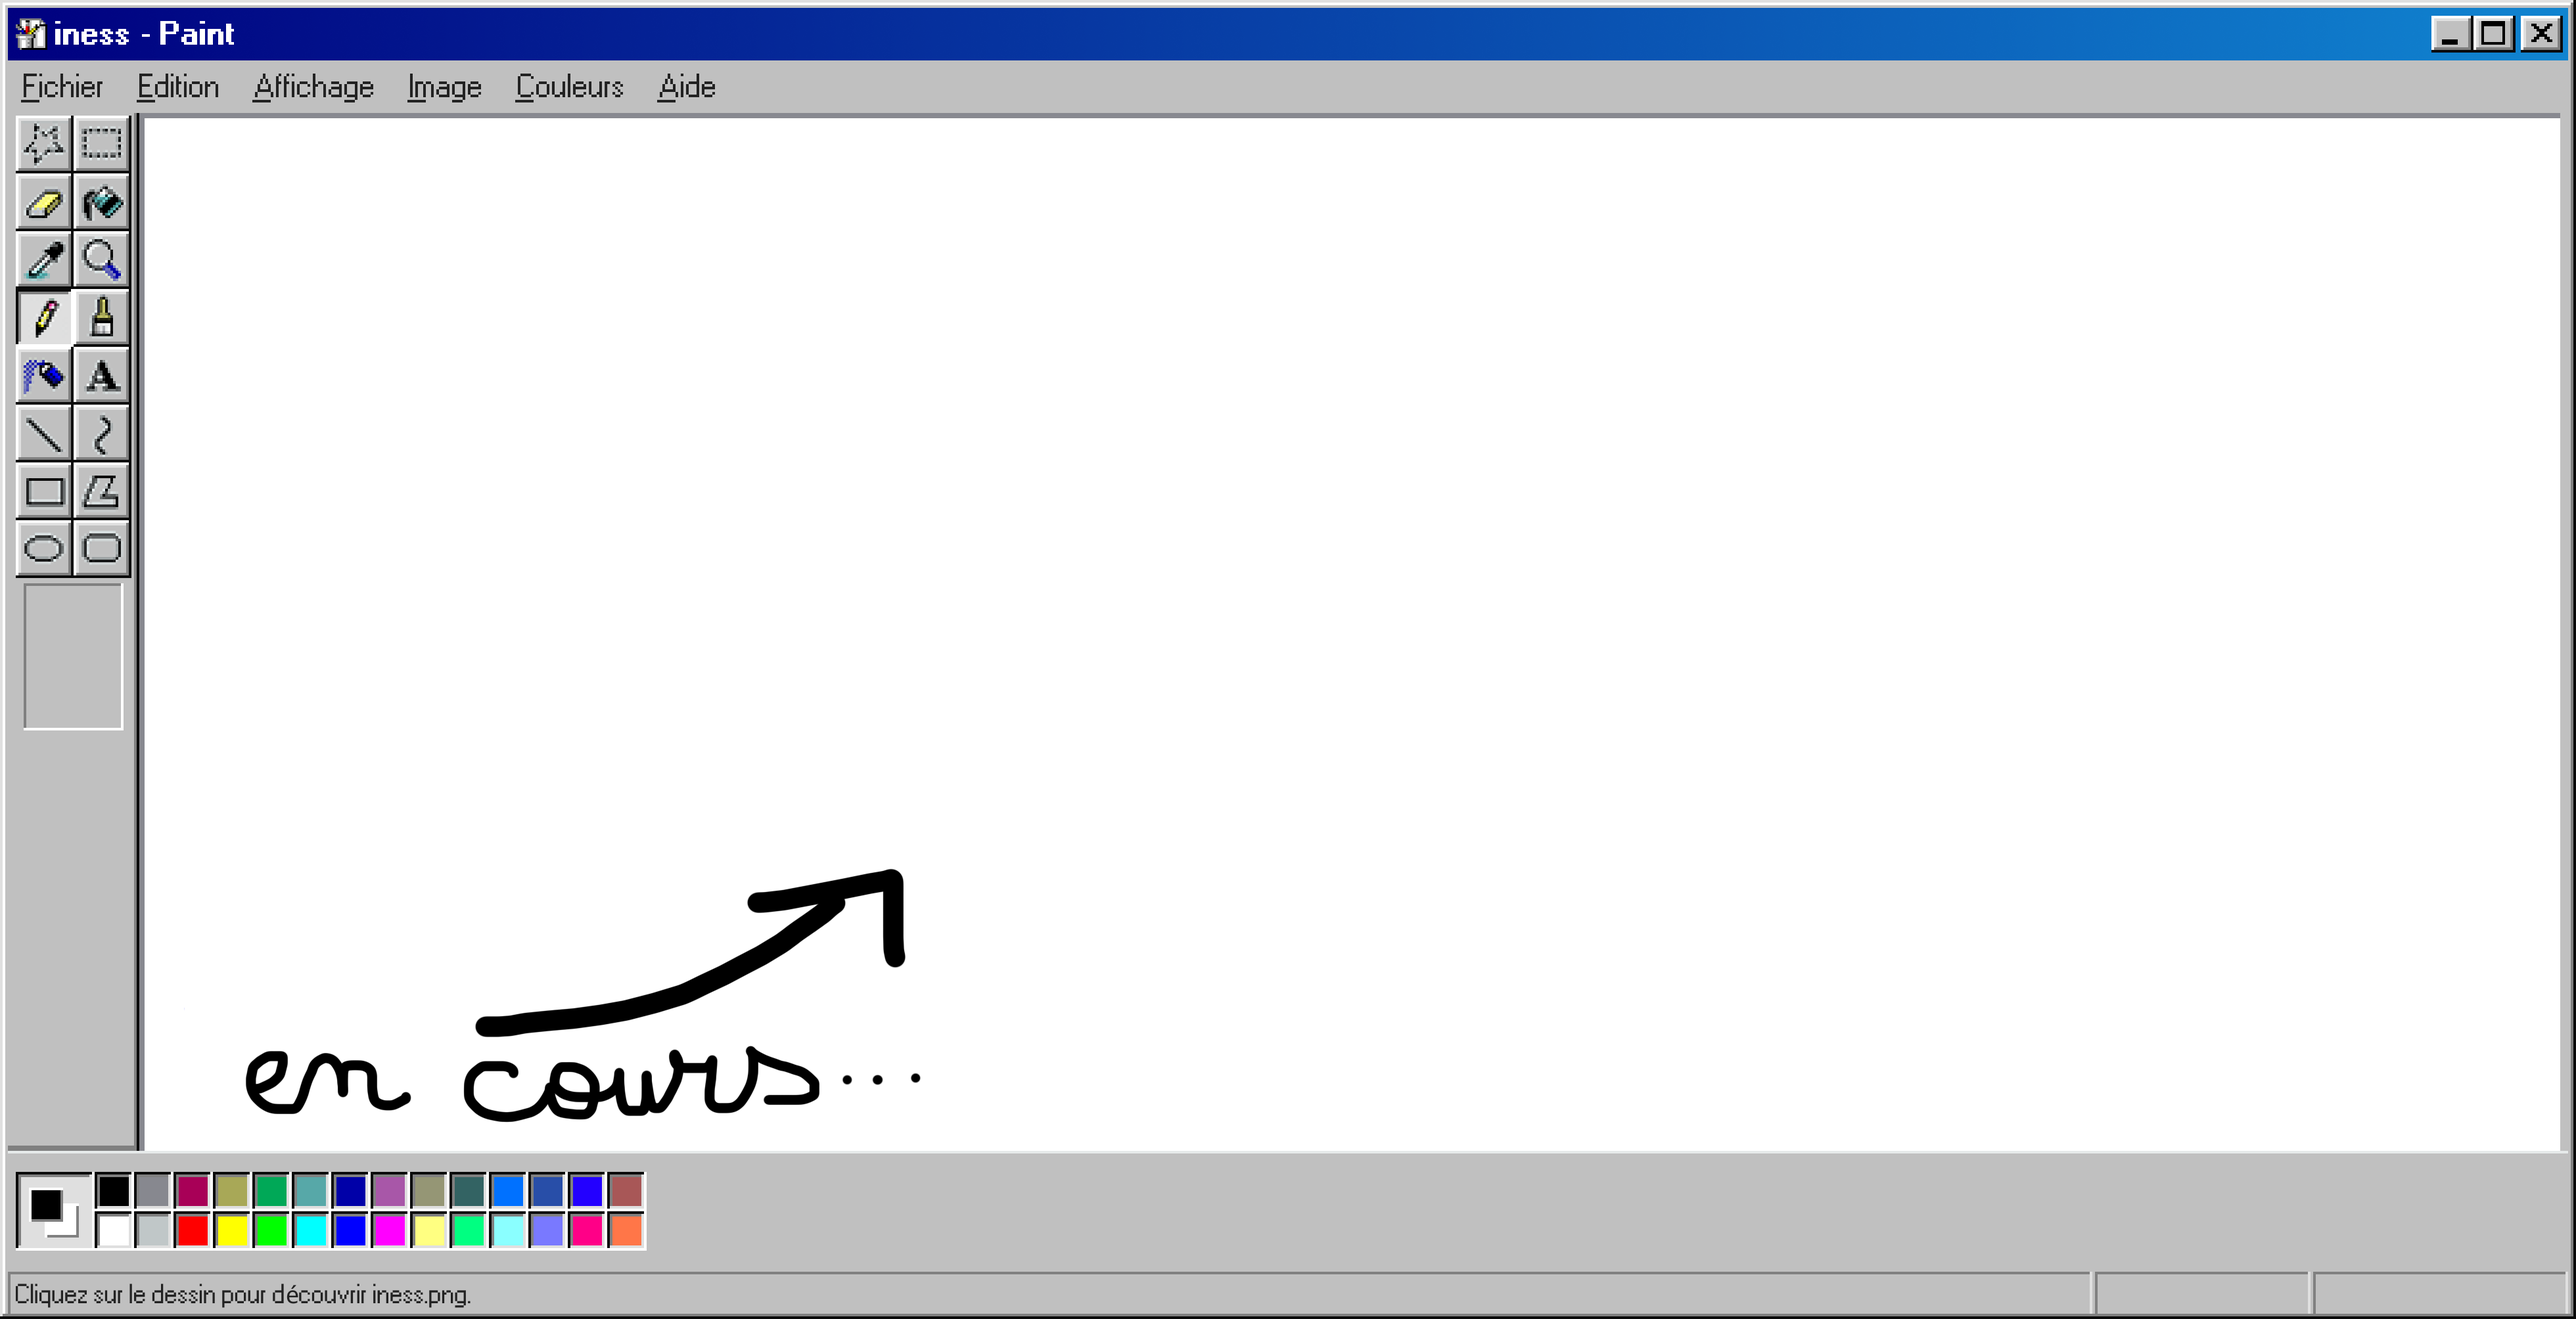
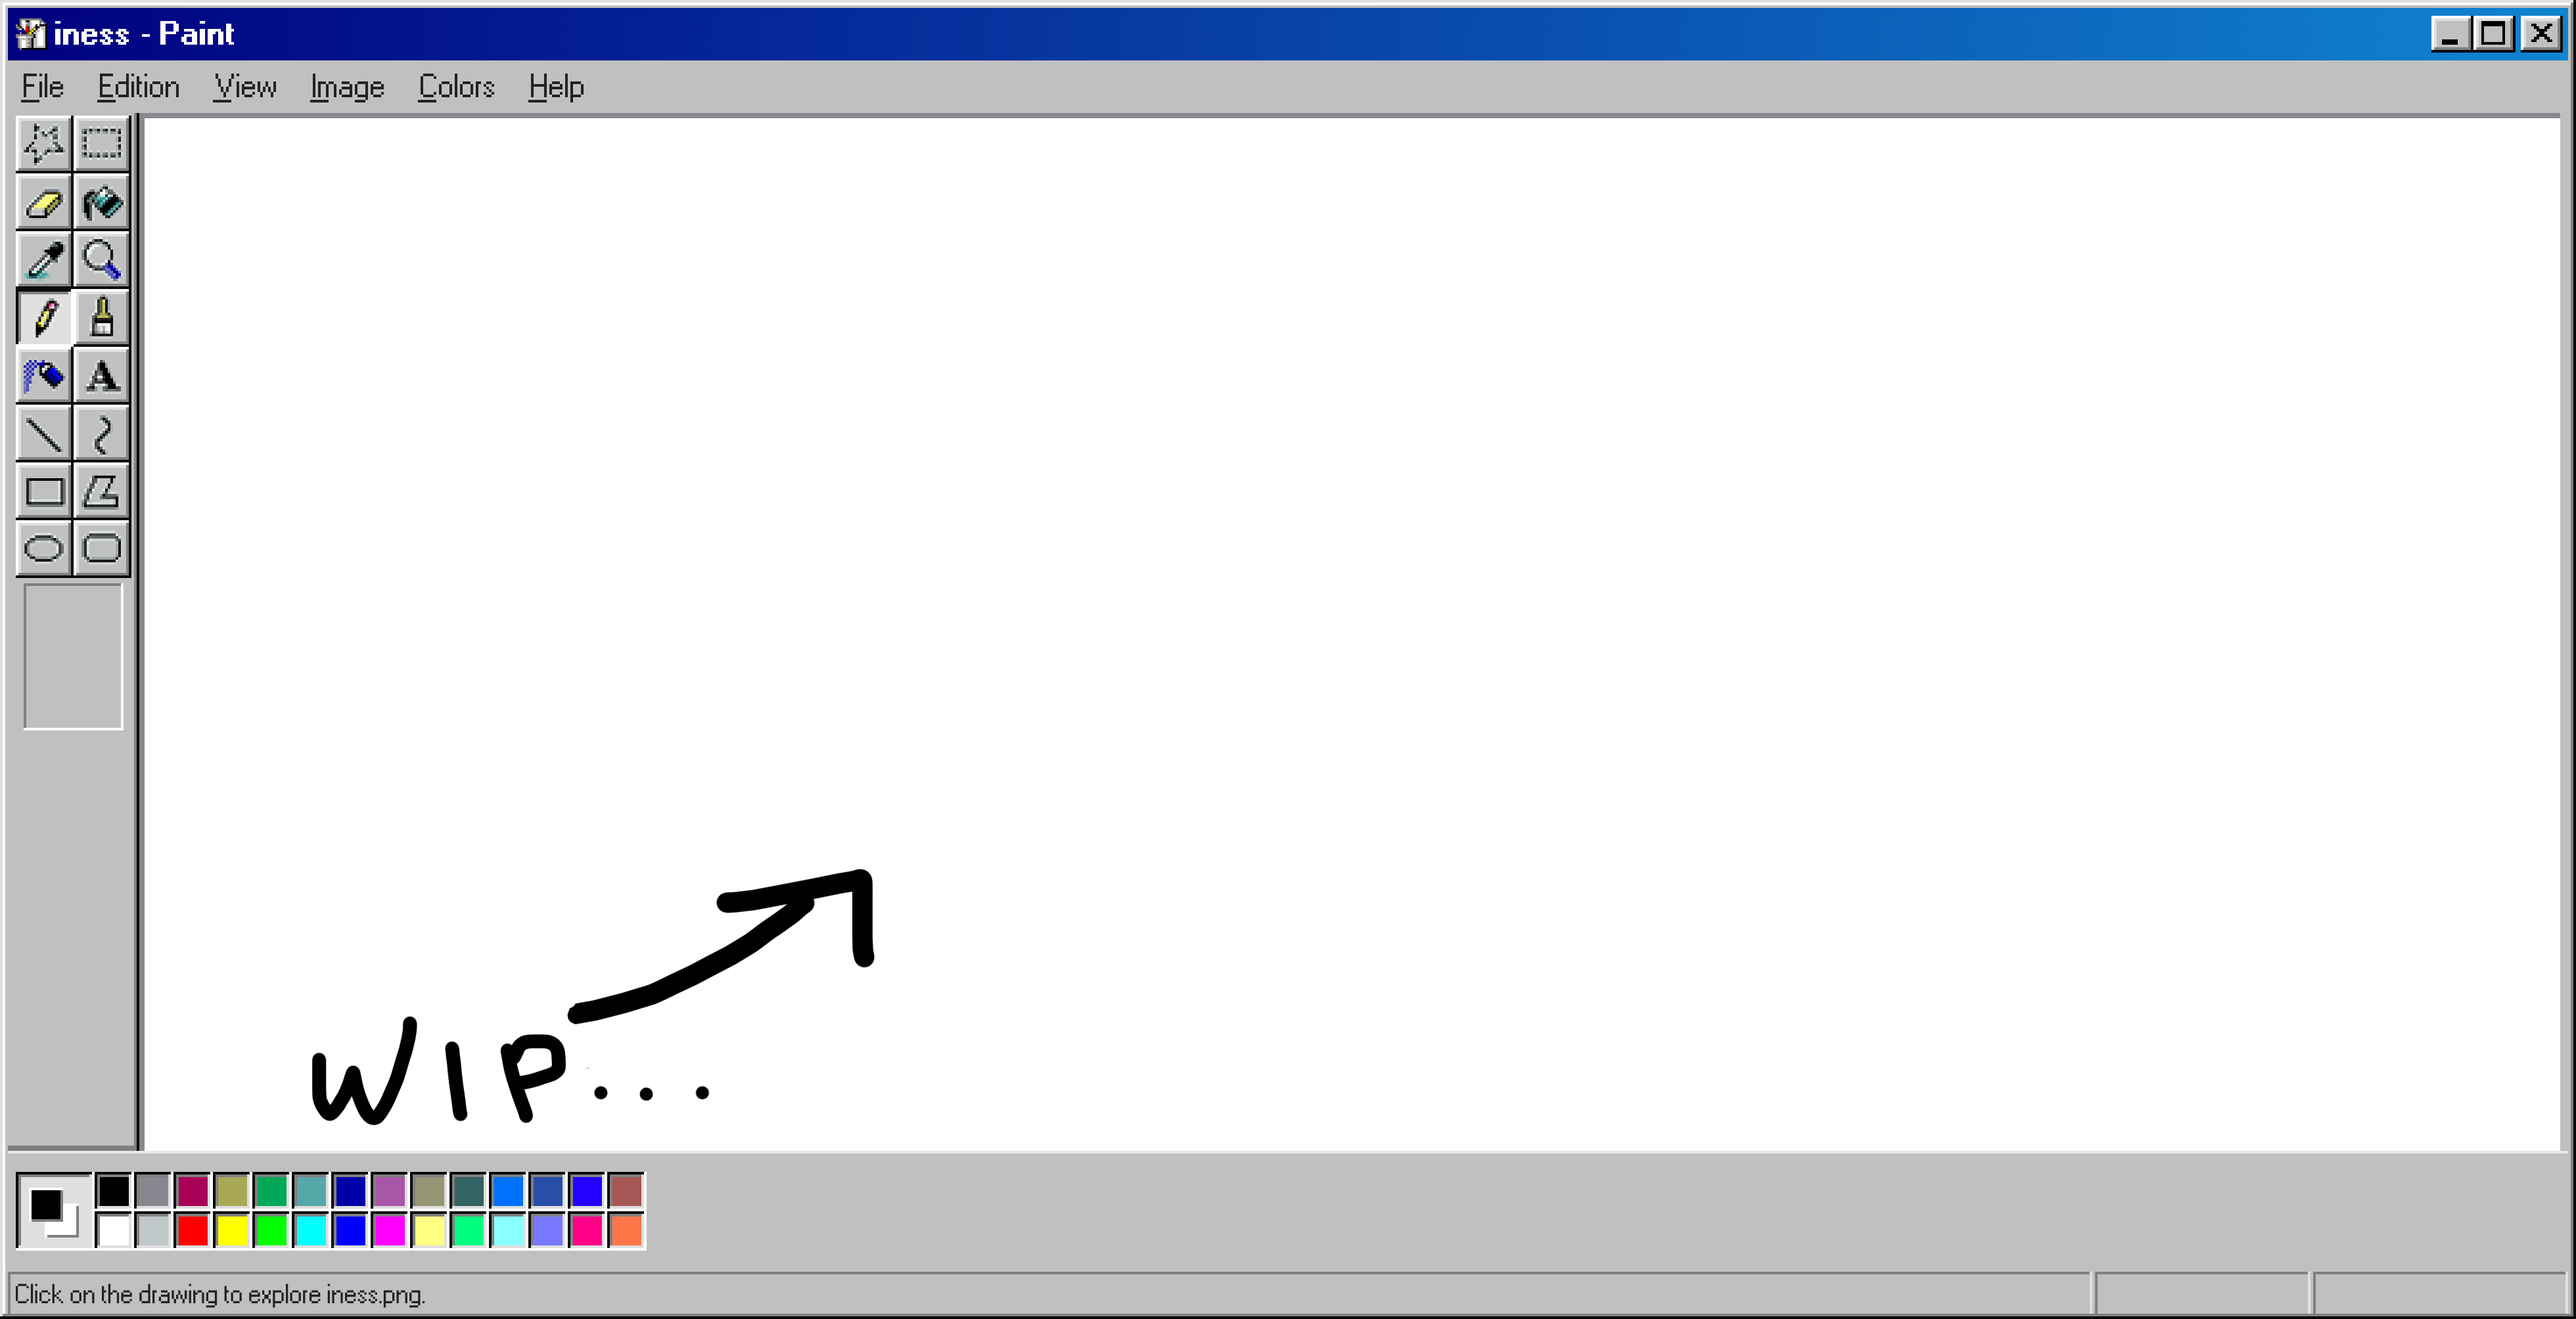
mise à jour site

Changed region(s): [[0.0934, 0.6484, 0.3735, 0.8645], [0.0311, 0.0618, 0.2801, 0.0926], [0.0311, 0.9572, 0.1867, 0.988]]

diff --git a/script.js b/script.js
@@ -1,13 +1,13 @@
 document.addEventListener('DOMContentLoaded', function () {
     const textElement = document.getElementById('loading-text');
     const textToType = "<div style='display: inline-block;'><img src='bios1.png' alt='bios'></div>" +
-                      "<div style='display: inline-block; vertical-align: top;'>\tINESS TKHAYYARE V2.0 2025\n \tTRAVAUX EN COURS\n</div>" +
+                      "<div style='display: inline-block; vertical-align: top;'>\tINESS TKHAYYARE V2.0 2025\n \tWORK IN PROGRESS\n</div>" +
                       "\nInstitution \t\t\t\t\t\t :ENSA Toulouse\n" +
-                      "Spécialité \t\t\t\t\t\t :Architecture\n" +
-                      "Temps passé à concevoir \t\t :100000\n" +
-                      "RAM Cérébrale \t\t\t\t\t :Faible\n" +
-                      "Années de thèse complétées \t :0.5 (15%)\n\n" +
-                      "\nPressez ENTREE pour commencer.";
+                      "Specialty \t\t\t\t\t\t :Architecture\n" +
+                      "Design Time Spent \t\t\t\t :100000\n" +
+                      "Brain RAM \t\t\t\t\t\t :Low\n" +
+                      "PhD Progress  \t\t\t\t\t :1y [██░░░░░░] (33%)\n\n" +
+                      "\nPress ENTER to begin.";
 
 
     let index = 0;
